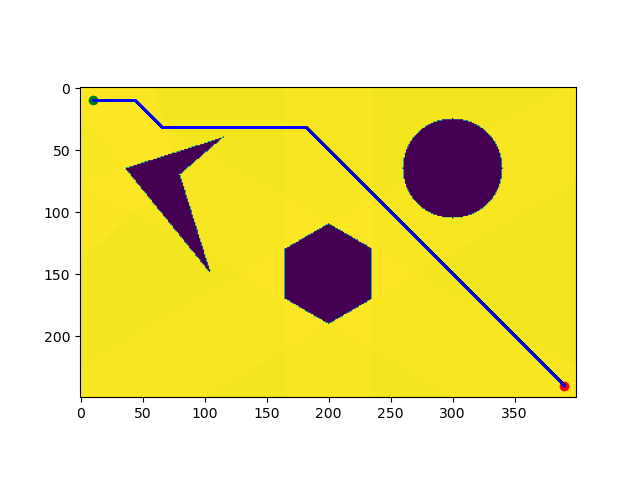
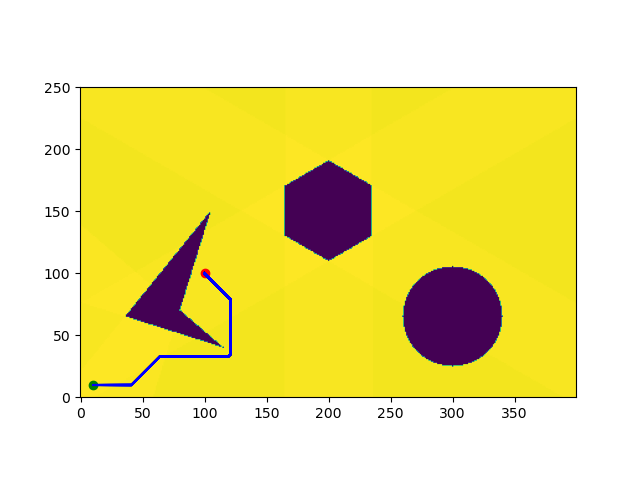
Fixed plot axis limits

diff --git a/Dijkstra-pathplanning-maaruf-vazifdar.py b/Dijkstra-pathplanning-maaruf-vazifdar.py
@@ -164,6 +164,8 @@ if check_position(goal_position) is False:
     print('Invalid Goal position\n')
     exit()
 
+plt.xlim([0,400])
+plt.ylim([0, 250])
 plt.scatter(start_position[0], start_position[1], color='green')
 plt.scatter(goal_position[0], goal_position[1], color='red')
 
